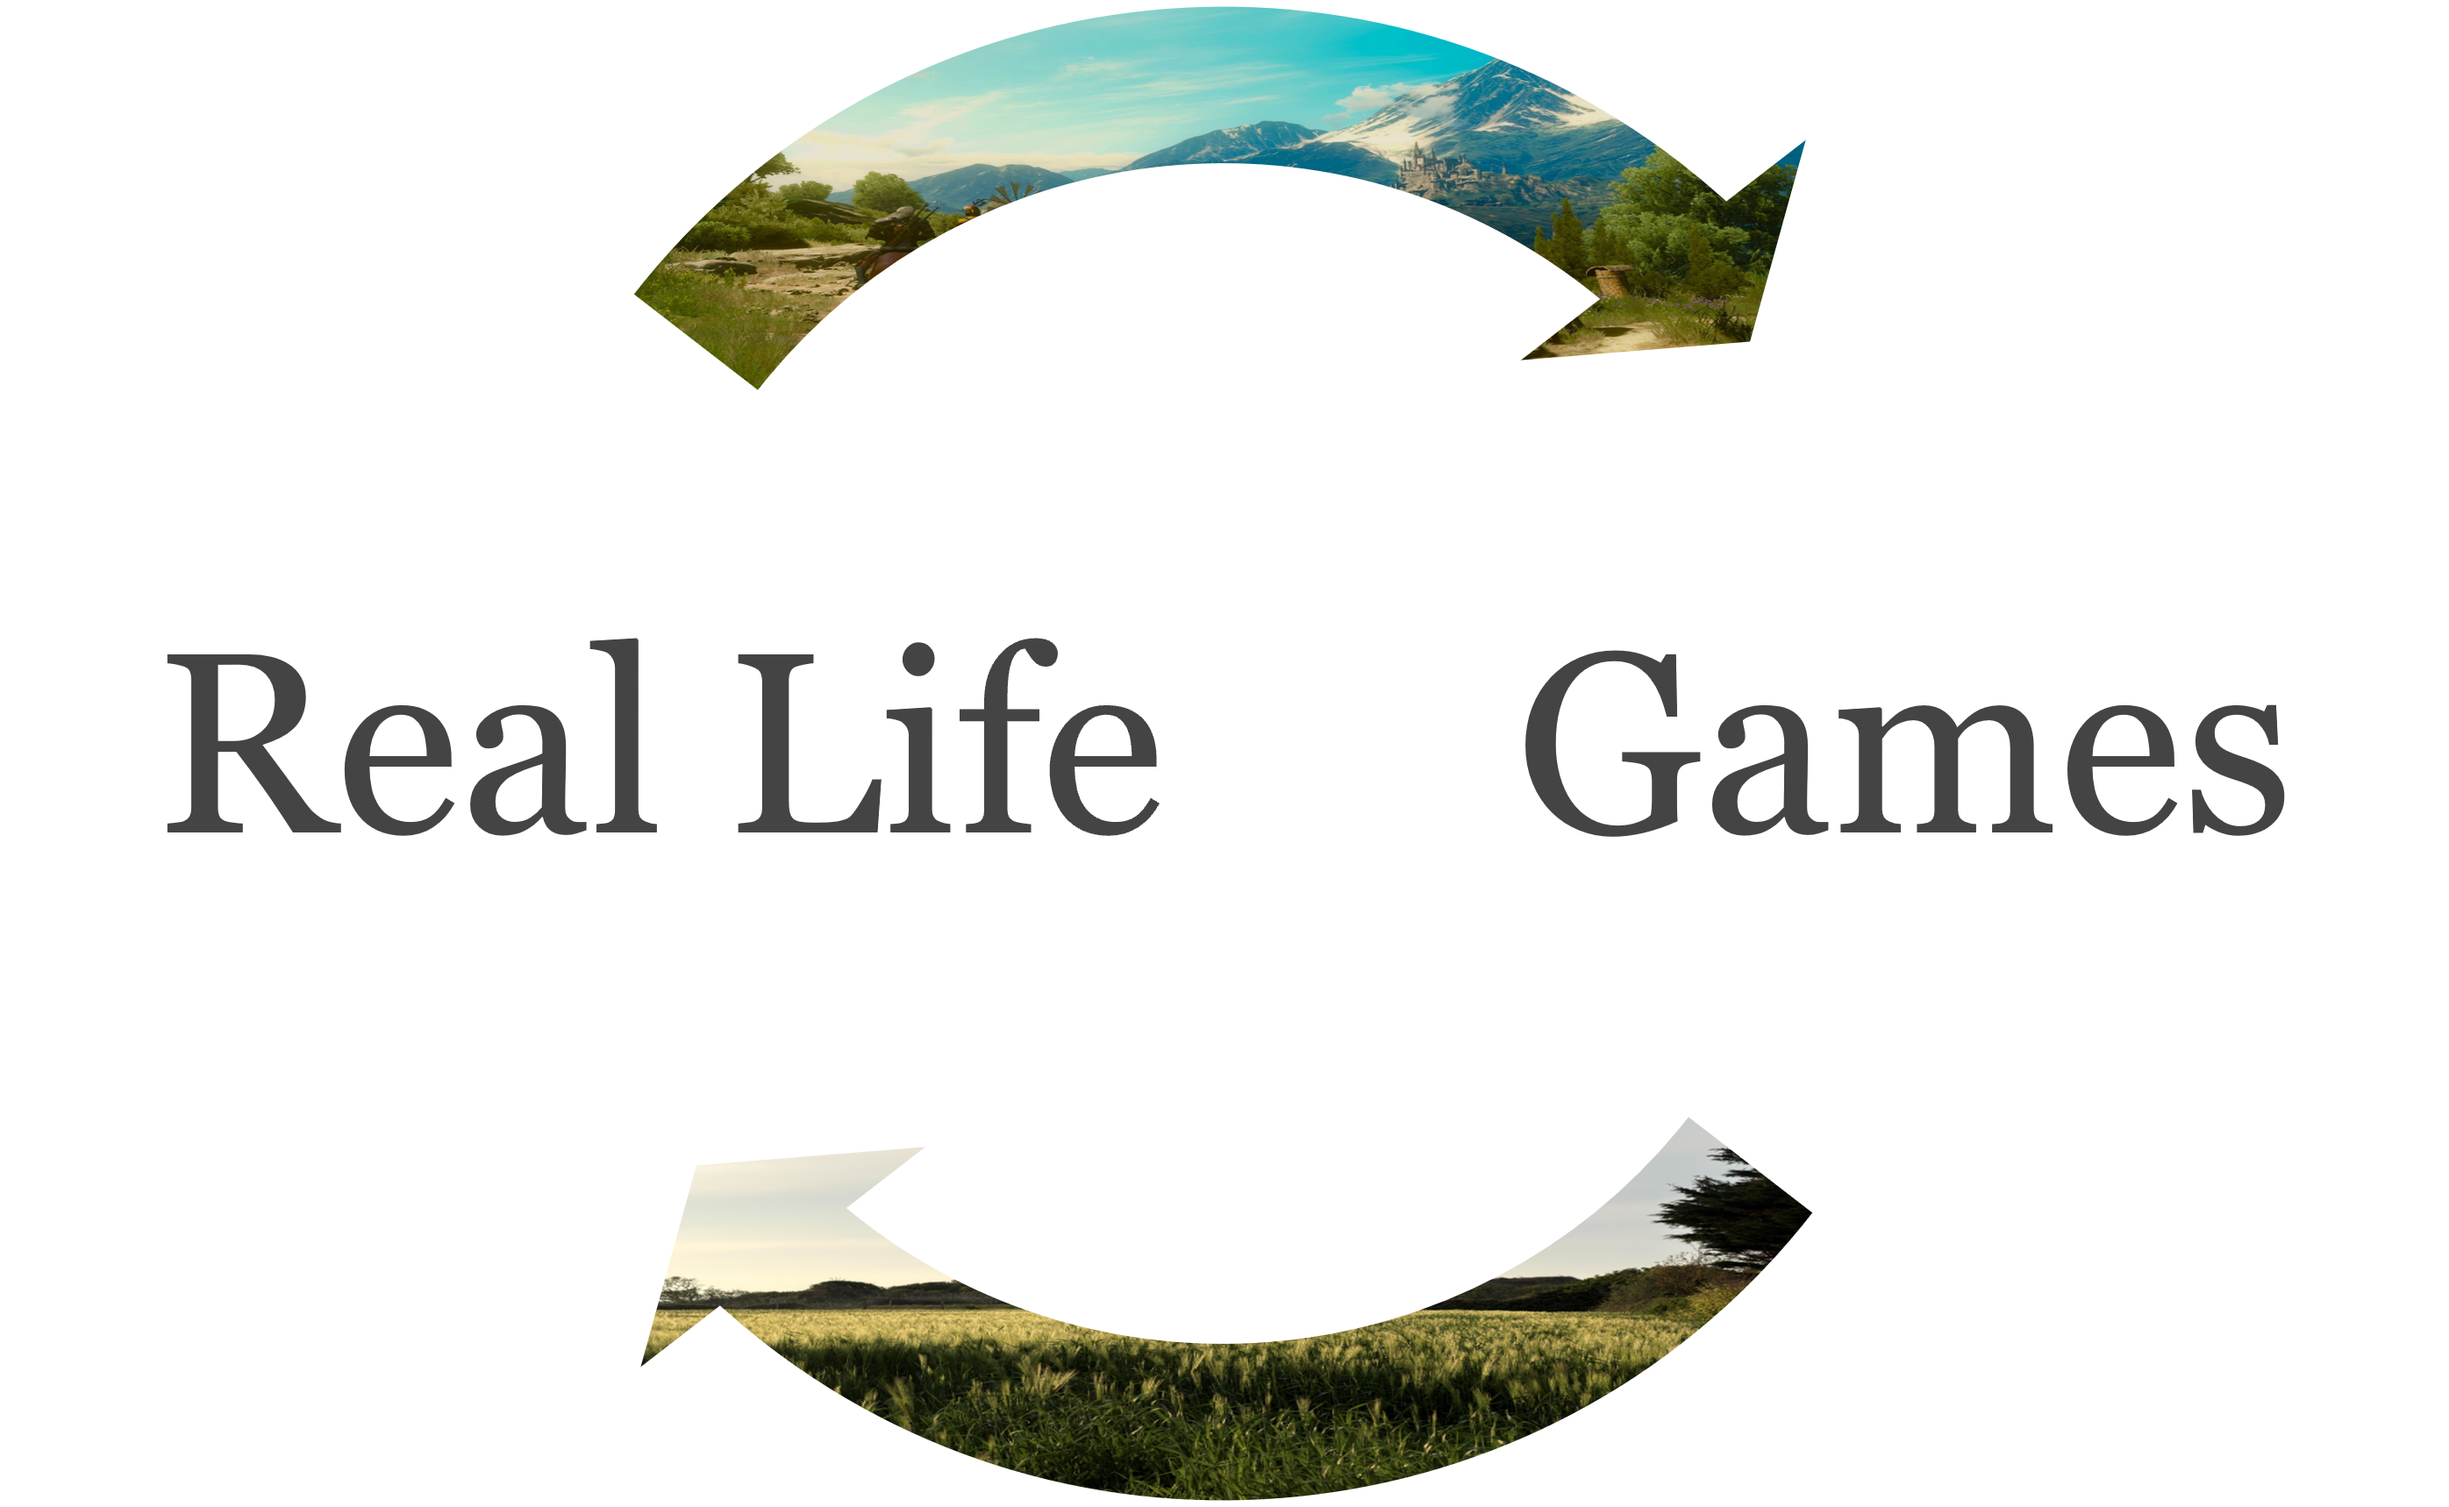
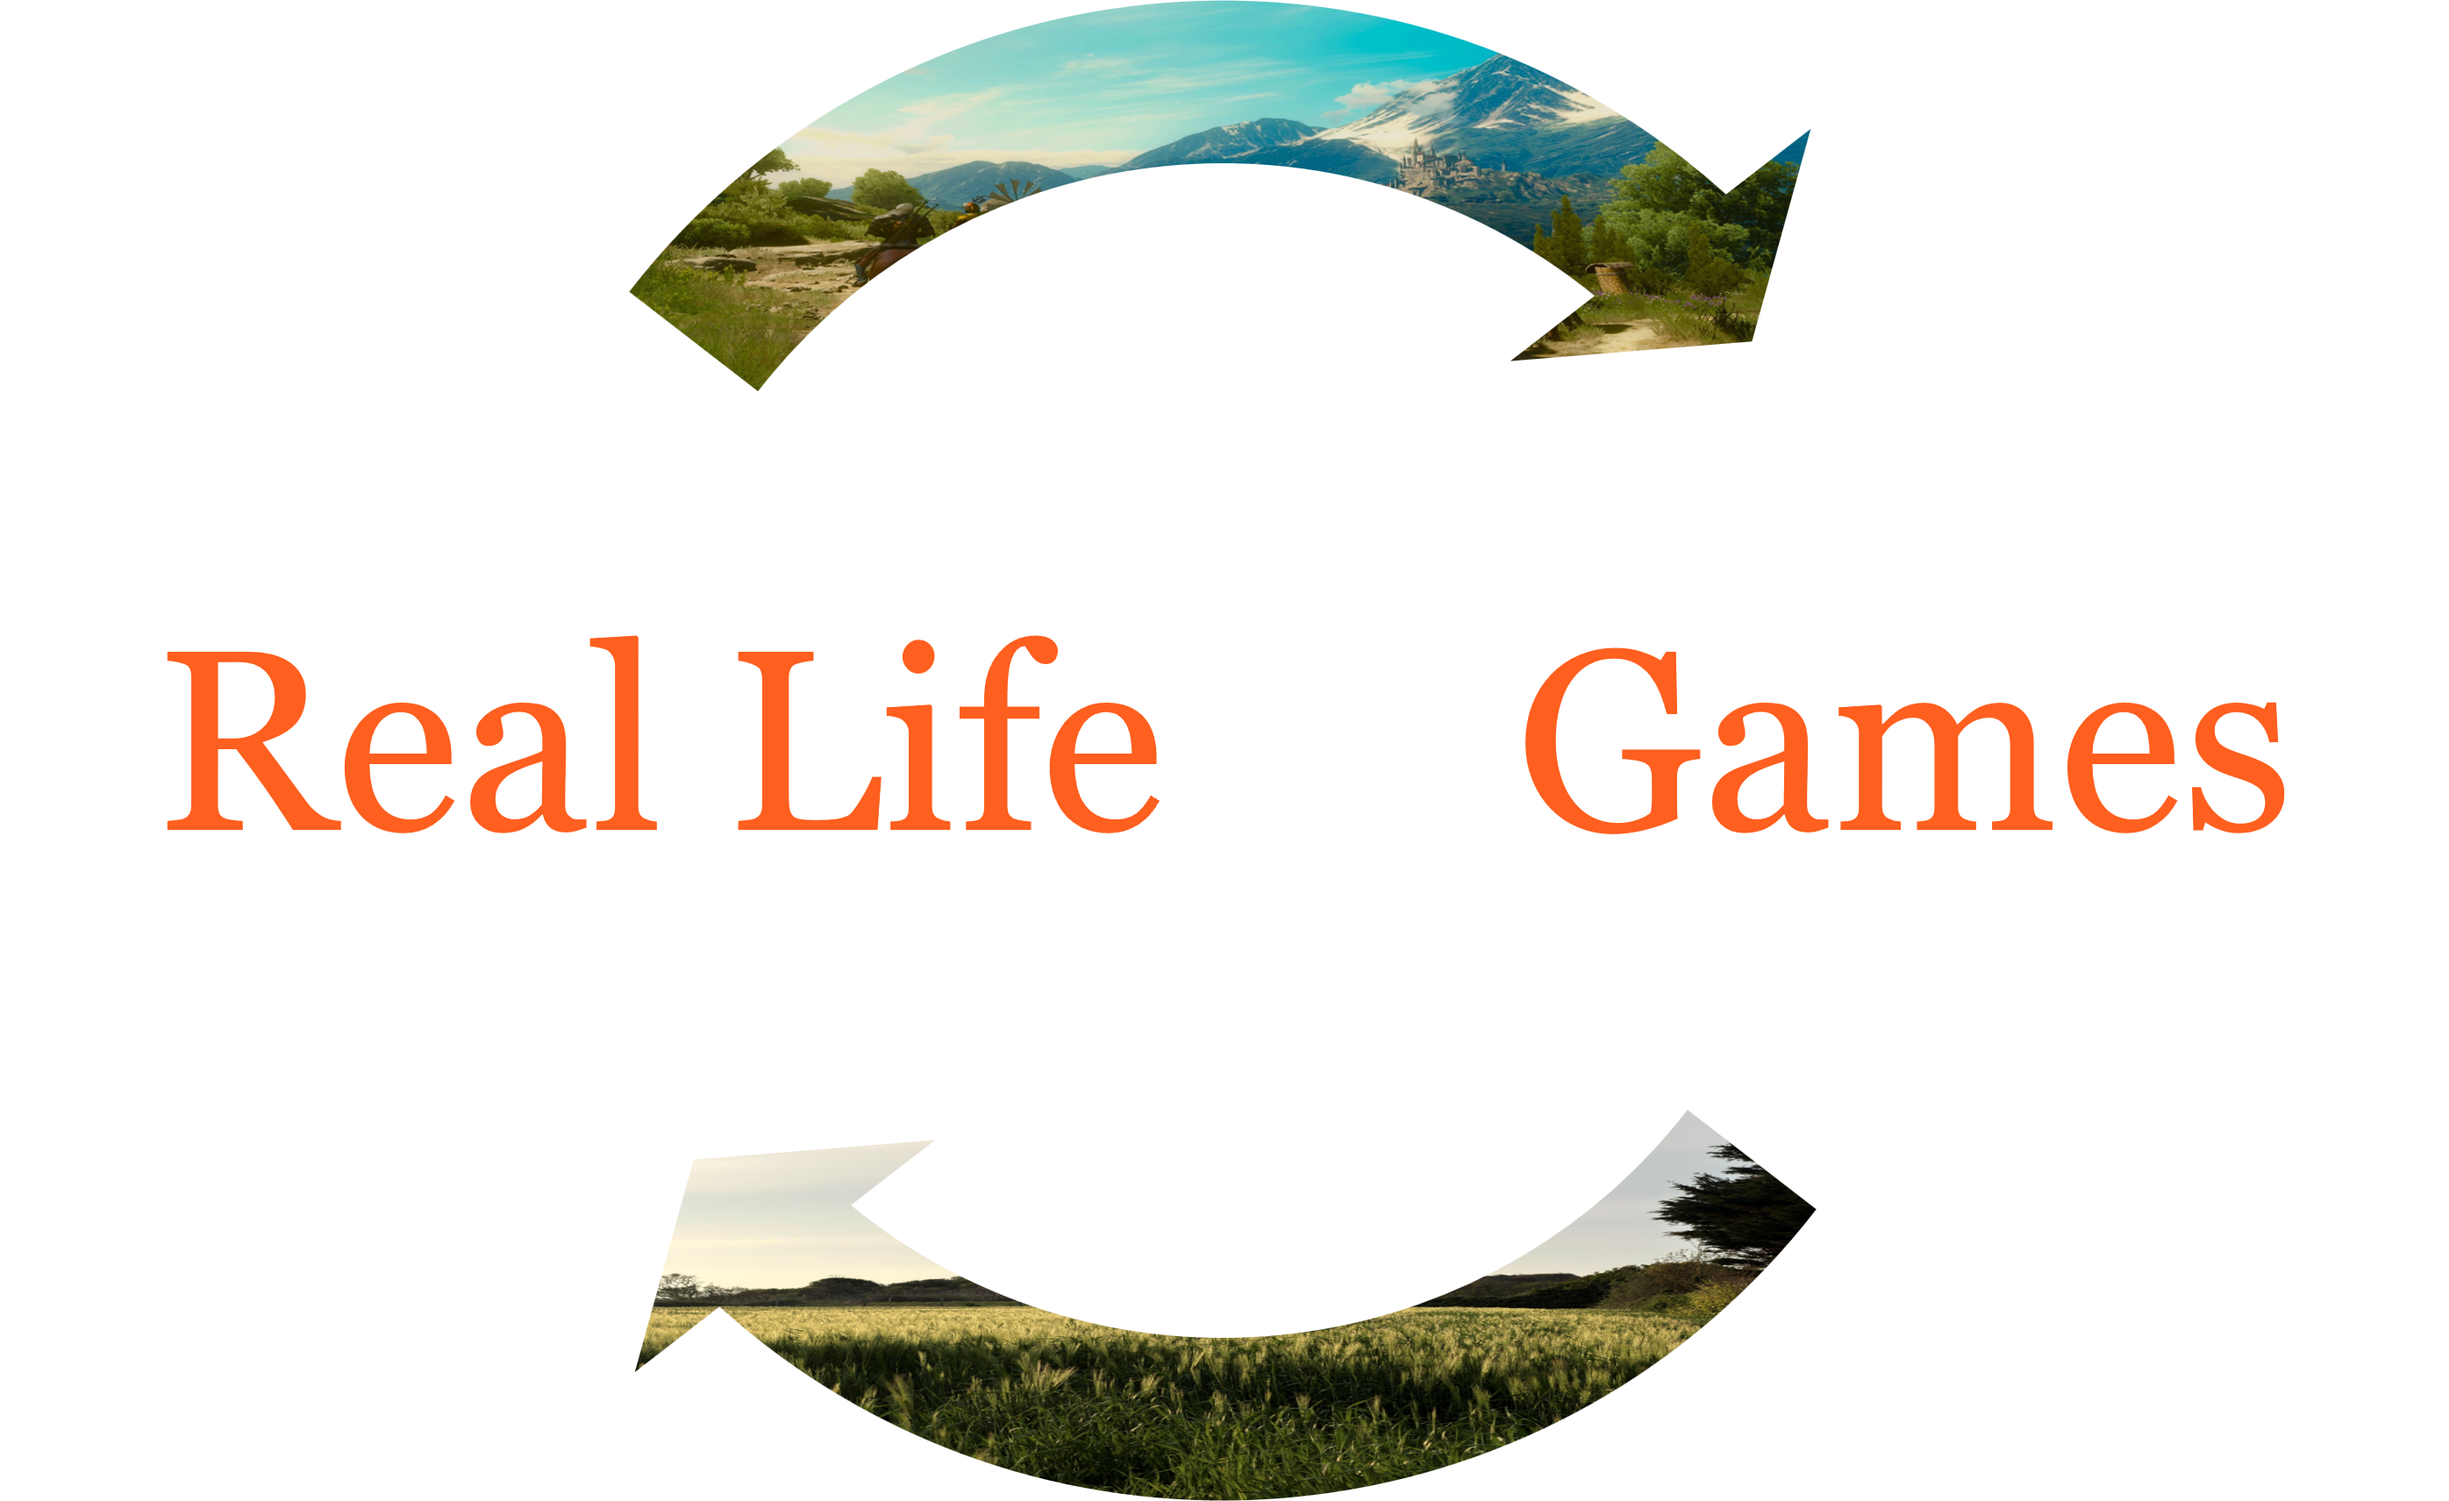
Update new post

diff --git a/content/posts/games-wisselwerking/index.md b/content/posts/games-wisselwerking/index.md
@@ -1,7 +1,7 @@
 +++
 date = "2026-06-13"
 title = "De invloed van games op mijn gedachten over landschap"
-image = "/images/invloed-games/games-wisselwerking.png"
+image = "/images/invloed-games/landschapsanalyse-2.webp"
 +++
 ## De invloed van games op mijn gedachten over landschap
 _"Life imitates Art far more than Art imitates Life"_
@@ -9,6 +9,7 @@ _"Life imitates Art far more than Art imitates Life"_
 Het leuke aan een eigen website is dat ik er min of meer mee kan doen wat ik wil. De blog is vooral een soort tijdbeeld van wat ik op dat moment interessant vind. De laatste tijd was ik in mijn hoofd steeds bezig met de vraag waarom ik denk zoals ik denk over landschap en landschapsontwerp. Wat is bijvoorbeeld de invloed geweest van een van mijn hobby’s, gamen? 
 
 Een tijdje terug luisterde ik een podcast met Swen Vincke van Larian Studio’s, de makers van Baldur’s Gate 3 (game van het jaar 2023). Vincke vertelt daarin over de startomgeving van het spel. De play-knop start automatisch op minuut 40:40, het stukje duurt tot ongeveer een minuut daarna:
+
 <iframe style="border-radius:12px" src="https://open.spotify.com/embed/episode/6S80SBIIKEcJUxrfTW4vj2?utm_source=generator&t=2438" width="100%" height="152" frameBorder="0" allowfullscreen="" allow="autoplay; clipboard-write; encrypted-media; fullscreen; picture-in-picture" loading="lazy"></iframe>
 
 Deze gedachtenuitwisseling met een van de breinen achter het bekroonde Baldur’s Gate en de invloed van persoonlijke voorkeuren op (spel)ontwerp vind ik natuurlijk interessant. Maar ik wil nog een stap verder gaan, is er ook sprake van wederzijdse beïnvloeding, zoals weergegeven in het plaatje hieronder?
@@ -32,7 +33,7 @@ De verhouding van speler tot landschap, dat is dus de kern van dit verhaal. Eers
 ### De heilige graal – de genius loci
 Een van de fundamentele vakken tijdens mijn opleiding was _landschapsanalyse_. Binnen een bepaald kaartoppervlak van (bijvoorbeeld) 5 x 10 km maak je analyses en kaarten van verschillende lagen: geologie, geomorfologie, bodem, water, netwerken, bebouwing, vegetatie (voornamelijk bos en bomen) en ruimte en massa. Een hele stapel kalkpapier verder kan je de lagen op verschillende manieren over elkaar leggen.
 
-![Landschapsanalyse](/images/invloed-games/landschapsanalyse-1.webp)
+![Landschapsanalyse](/images/invloed-games/landschapsanalyse-2.webp)
 
 Het doel is vervolgen om de _samenhang_ in het landschap te duiden. Voor het gebied waar ik woon zou de samenhang bijvoorbeeld _reliëf_ kunnen zijn: de grote gemene deler die bepalend is voor de beleving van het landschap. Maar op basis van je analyse en de zwaartepunten die je legt kan je ook tot een andere conclusie komen. Het gaat om het proces, zorgvuldigheid en begrip. De benadering is nadrukkelijk inductief (van data naar theorie). Landschapsanalyse stelt een landschapsontwerper in staat om een ontwerp te maken dat is aangepast aan de context van het landschap, de _genius loci_ – en uiteindelijk onderscheidt zo’n ontwerp zich omdat het vaak bruikbaarder, duurzamer en aantrekkelijker is.
 
